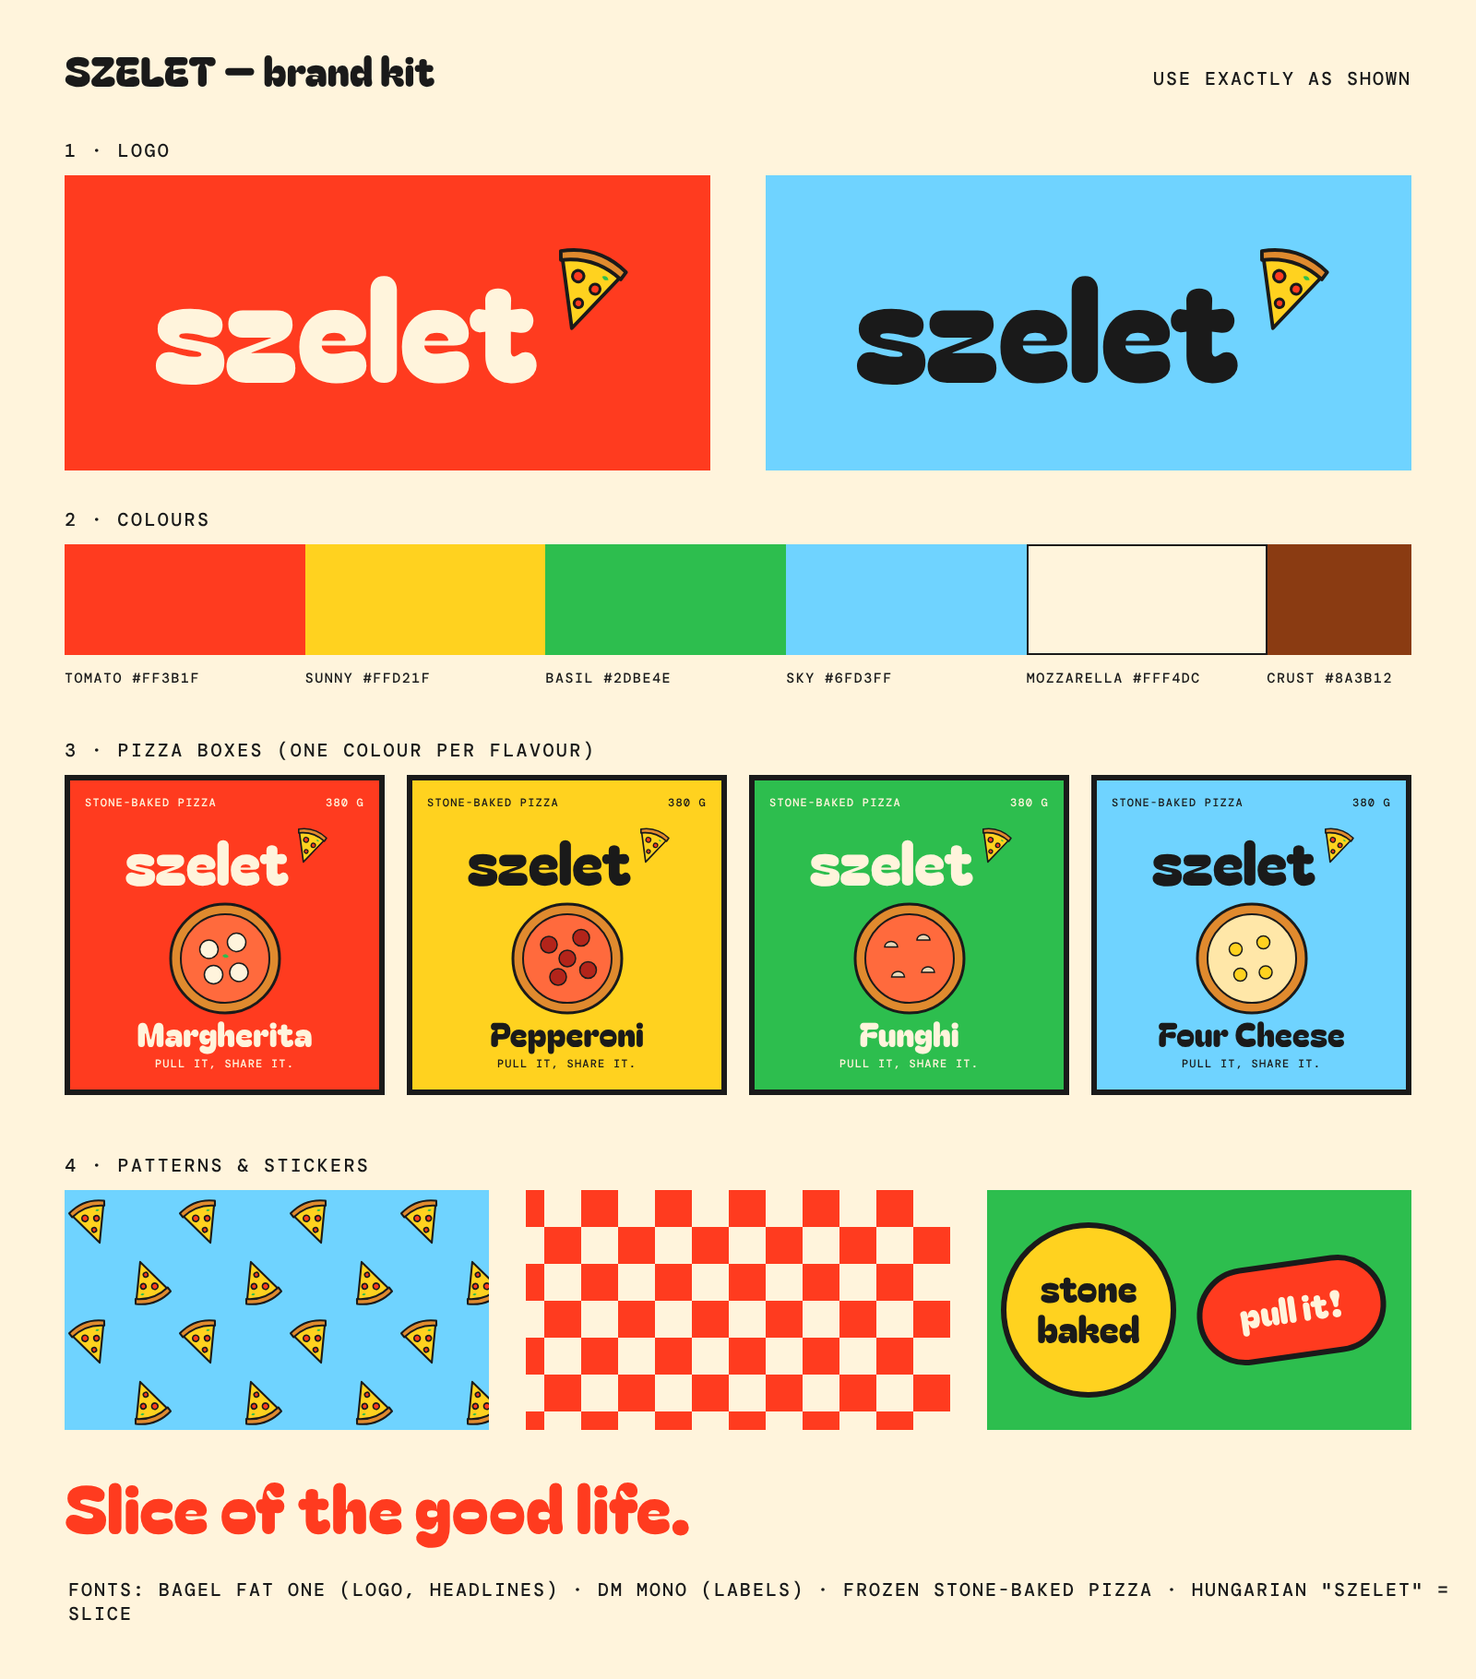
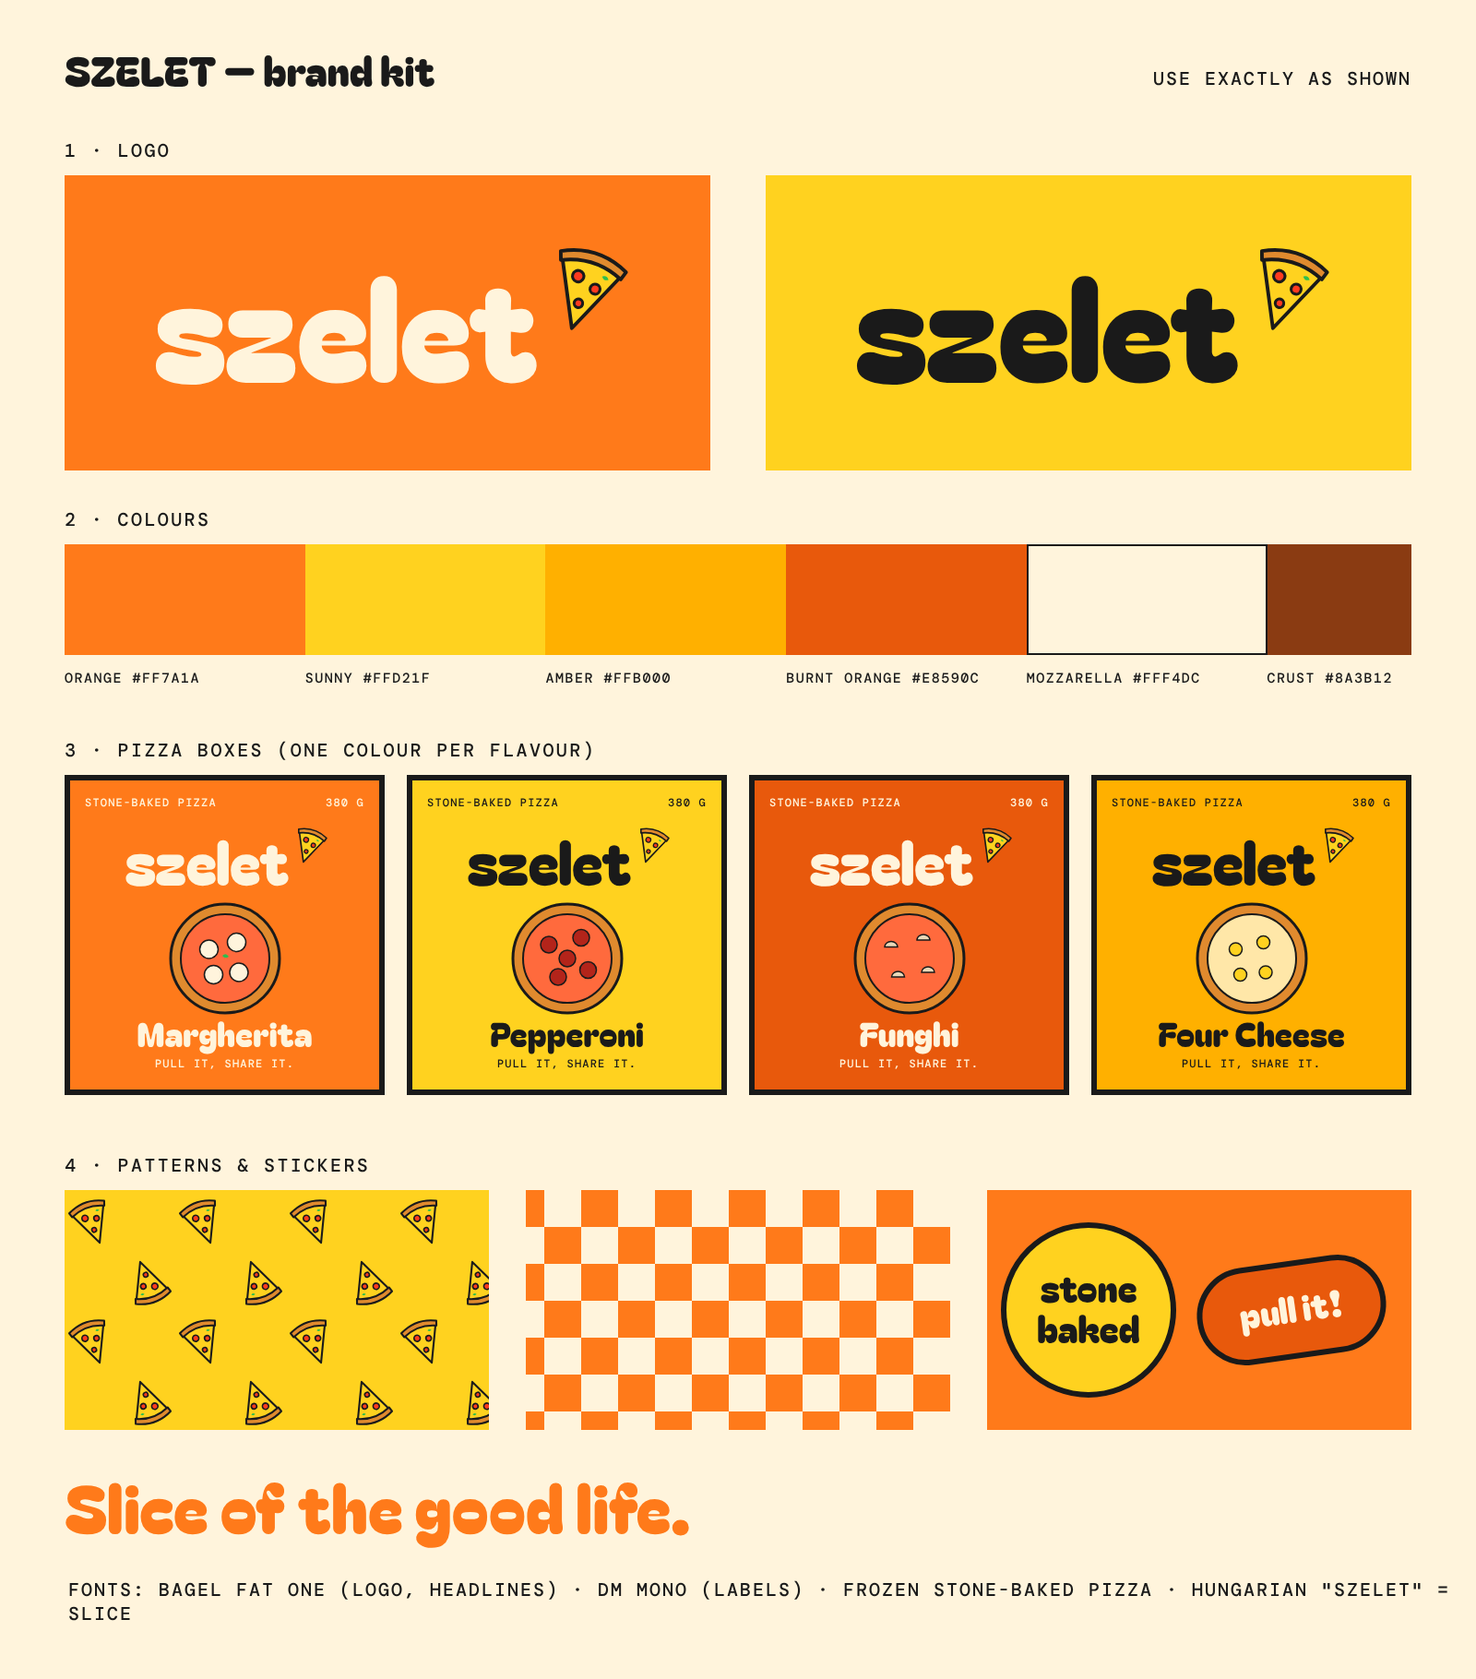
SZELET: yellow and orange only palette, updated kit, sketches and 23promts11
Claude-Session: https://claude.ai/code/session_01FuZubXyqYQcha8AH4cMf93

diff --git a/reels/brands/szelet/kit.html b/reels/brands/szelet/kit.html
@@ -5,7 +5,7 @@
 <title>SZELET brand kit</title>
 <link href="https://fonts.googleapis.com/css2?family=Bagel+Fat+One&family=DM+Mono:wght@500&display=swap" rel="stylesheet">
 <style>
-  :root{--red:#FF3B1F;--green:#2DBE4E;--cream:#FFF4DC;--sky:#6FD3FF;--yellow:#FFD21F;--crust:#8A3B12}
+  :root{--red:#FF7A1A;--green:#FFB000;--cream:#FFF4DC;--sky:#FFD21F;--yellow:#FFD21F;--crust:#8A3B12}
   *{margin:0;padding:0;box-sizing:border-box}
   body{background:#222;width:1600px}
   section{position:relative;overflow:hidden}
@@ -40,9 +40,9 @@
 
   <div class="abs label" style="top:550px;left:70px">2 · Colours</div>
   <div class="abs" style="top:590px;left:70px;width:1460px;height:120px;display:flex">
-    <div style="flex:1;background:#FF3B1F"></div><div style="flex:1;background:#FFD21F"></div><div style="flex:1;background:#2DBE4E"></div><div style="flex:1;background:#6FD3FF"></div><div style="flex:1;background:#FFF4DC;outline:2px solid #1A1A1A;outline-offset:-2px"></div><div style="flex:.6;background:#8A3B12"></div></div>
+    <div style="flex:1;background:#FF7A1A"></div><div style="flex:1;background:#FFD21F"></div><div style="flex:1;background:#FFB000"></div><div style="flex:1;background:#E8590C"></div><div style="flex:1;background:#FFF4DC;outline:2px solid #1A1A1A;outline-offset:-2px"></div><div style="flex:.6;background:#8A3B12"></div></div>
   <div class="abs mono" style="top:725px;left:70px;width:1460px;display:flex;font-size:15px;color:#1A1A1A">
-    <div style="flex:1">Tomato #FF3B1F</div><div style="flex:1">Sunny #FFD21F</div><div style="flex:1">Basil #2DBE4E</div><div style="flex:1">Sky #6FD3FF</div><div style="flex:1">Mozzarella #FFF4DC</div><div style="flex:.6">Crust #8A3B12</div></div>
+    <div style="flex:1">Orange #FF7A1A</div><div style="flex:1">Sunny #FFD21F</div><div style="flex:1">Amber #FFB000</div><div style="flex:1">Burnt orange #E8590C</div><div style="flex:1">Mozzarella #FFF4DC</div><div style="flex:.6">Crust #8A3B12</div></div>
 
   <div class="abs label" style="top:800px;left:70px">3 · Pizza boxes (one colour per flavour)</div>
   <div class="abs" style="top:840px;left:70px;width:1460px;height:700px;display:grid;grid-template-columns:repeat(4,1fr);gap:24px" data-boxes></div>
@@ -50,14 +50,14 @@
   <div class="abs label" style="top:1250px;left:70px">4 · Patterns &amp; stickers</div>
   <svg class="abs" width="1460" height="260" style="top:1290px;left:70px">
     <defs><pattern id="p-sl" width="120" height="130" patternUnits="userSpaceOnUse"><use href="#slice" transform="translate(30 35) scale(.42) rotate(-20)"/><use href="#slice" transform="translate(90 100) scale(.42) rotate(160)"/></pattern>
-      <pattern id="p-ch" width="80" height="80" patternUnits="userSpaceOnUse"><rect width="80" height="80" fill="#FFF4DC"/><rect width="40" height="40" fill="#FF3B1F"/><rect x="40" y="40" width="40" height="40" fill="#FF3B1F"/></pattern></defs>
-    <rect width="460" height="260" fill="#6FD3FF"/><rect width="460" height="260" fill="url(#p-sl)"/>
+      <pattern id="p-ch" width="80" height="80" patternUnits="userSpaceOnUse"><rect width="80" height="80" fill="#FFF4DC"/><rect width="40" height="40" fill="#FF7A1A"/><rect x="40" y="40" width="40" height="40" fill="#FF7A1A"/></pattern></defs>
+    <rect width="460" height="260" fill="#FFD21F"/><rect width="460" height="260" fill="url(#p-sl)"/>
     <rect x="500" width="460" height="260" fill="url(#p-ch)"/>
-    <g transform="translate(1000 0)"><rect width="460" height="260" fill="#2DBE4E"/>
+    <g transform="translate(1000 0)"><rect width="460" height="260" fill="#FF7A1A"/>
       <circle cx="110" cy="130" r="92" fill="#FFD21F" stroke="#1A1A1A" stroke-width="6"/><text x="110" y="122" text-anchor="middle" font-family="Bagel Fat One" font-size="40" fill="#1A1A1A">stone</text><text x="110" y="166" text-anchor="middle" font-family="Bagel Fat One" font-size="40" fill="#1A1A1A">baked</text>
-      <g transform="translate(330 130) rotate(-8)"><rect x="-100" y="-50" width="200" height="100" rx="50" fill="#FF3B1F" stroke="#1A1A1A" stroke-width="6"/><text y="14" text-anchor="middle" font-family="Bagel Fat One" font-size="38" fill="#FFF4DC">pull it!</text></g></g>
+      <g transform="translate(330 130) rotate(-8)"><rect x="-100" y="-50" width="200" height="100" rx="50" fill="#E8590C" stroke="#1A1A1A" stroke-width="6"/><text y="14" text-anchor="middle" font-family="Bagel Fat One" font-size="38" fill="#FFF4DC">pull it!</text></g></g>
   </svg>
-  <div class="abs fat" style="top:1600px;left:70px;font-size:72px;color:#FF3B1F">Slice of the good life.</div>
+  <div class="abs fat" style="top:1600px;left:70px;font-size:72px;color:#FF7A1A">Slice of the good life.</div>
   <div class="abs mono" style="top:1710px;left:74px;font-size:20px;color:#1A1A1A">Fonts: Bagel Fat One (logo, headlines) · DM Mono (labels) · Frozen stone-baked pizza · Hungarian "szelet" = slice</div>
 </section>
 
@@ -71,7 +71,7 @@
   <g id="basil"><path d="M0 0q30 -40 60 0q-30 30 -60 0z" fill="#2DBE4E" stroke="#1E8A38" stroke-width="2"/><path d="M0 0h58" stroke="#1E8A38" stroke-width="2"/></g>
 </defs></svg>
 
-<section data-out="sk-01-flatlay" class="sk" style="background:#6FD3FF">
+<section data-out="sk-01-flatlay" class="sk" style="background:#FFD21F">
   <div class="abs sh" style="left:60px;top:150px;width:420px;height:420px;transform:rotate(-8deg)" data-box="Margherita"></div>
   <div class="abs sh" style="left:560px;top:250px;width:400px;height:400px;transform:rotate(7deg)" data-box="Pepperoni"></div>
   <div class="abs sh" style="left:620px;top:1000px;width:380px;height:380px;transform:rotate(-6deg)" data-box="Funghi"></div>
@@ -80,7 +80,7 @@
     <use href="#basil" transform="translate(520 1250) rotate(30)"/><use href="#basil" transform="translate(110 640) rotate(-40)"/></svg>
 </section>
 
-<section data-out="sk-02-cheese-pull" class="sk" style="background:#FFD21F">
+<section data-out="sk-02-cheese-pull" class="sk" style="background:#FF7A1A">
   <div class="abs" style="left:70px;top:250px;width:570px;height:570px" data-box="Pepperoni"></div>
   <div class="abs" style="left:112px;top:820px;width:800px;height:640px;background:#C9A47A;border:6px solid #1A1A1A;transform:perspective(1400px) rotateX(35deg);transform-origin:top"></div>
   <svg class="abs" width="1024" height="1536">
@@ -90,17 +90,17 @@
     <circle cx="520" cy="470" r="22" fill="#FFF4DC"/><circle cx="560" cy="380" r="16" fill="#FFF4DC"/></g></svg>
 </section>
 
-<section data-out="sk-03-pattern" class="sk" style="background:#2DBE4E" data-grid></section>
+<section data-out="sk-03-pattern" class="sk" style="background:#FFD21F" data-grid></section>
 
-<section data-out="sk-04-bite" class="sk" style="background:#6FD3FF">
+<section data-out="sk-04-bite" class="sk" style="background:#FFB000">
   <svg class="abs" width="1024" height="1536">
     <ellipse cx="520" cy="560" rx="210" ry="270" fill="#E6B391" opacity=".55"/>
-    <path d="M240 1536Q260 1000 520 940Q780 1000 800 1536Z" fill="#FF3B1F"/>
+    <path d="M240 1536Q260 1000 520 940Q780 1000 800 1536Z" fill="#FFF4DC"/>
     <path d="M620 700 L860 660 L700 420 Z" fill="#FF6A3D" stroke="#1A1A1A" stroke-width="5" transform="rotate(10 740 560)"/></svg>
   <div class="abs sh" style="left:160px;top:1090px;width:360px;height:360px;transform:rotate(-10deg)" data-box="Four Cheese"></div>
 </section>
 
-<section data-out="sk-05-tomatoes" class="sk" style="background:#FF3B1F">
+<section data-out="sk-05-tomatoes" class="sk" style="background:#FF7A1A">
   <div class="abs sh" style="left:262px;top:300px;width:500px;height:500px;transform:rotate(-6deg)" data-box="Margherita"></div>
   <svg class="abs" width="1024" height="1536"><rect x="452" y="790" width="120" height="420" rx="50" fill="#E6B391" opacity=".75"/>
     <use href="#tomato" transform="translate(487 1353) scale(1.17) rotate(189)"/><use href="#tomato" transform="translate(970 1370) scale(1.19) rotate(310)"/><use href="#tomato" transform="translate(26 1515) scale(1.32) rotate(132)"/><use href="#tomato" transform="translate(479 1148) scale(1.40) rotate(240)"/><use href="#tomato" transform="translate(975 1253) scale(1.22) rotate(77)"/><use href="#tomato" transform="translate(474 1375) scale(0.98) rotate(267)"/><use href="#tomato" transform="translate(798 1429) scale(0.91) rotate(32)"/><use href="#tomato" transform="translate(326 1438) scale(1.38) rotate(21)"/><use href="#tomato" transform="translate(616 1449) scale(0.92) rotate(137)"/><use href="#tomato" transform="translate(968 1354) scale(1.26) rotate(198)"/><use href="#tomato" transform="translate(874 1252) scale(1.26) rotate(295)"/><use href="#tomato" transform="translate(910 1543) scale(1.37) rotate(187)"/><use href="#tomato" transform="translate(199 1068) scale(0.97) rotate(111)"/><use href="#tomato" transform="translate(528 1544) scale(1.24) rotate(320)"/><use href="#tomato" transform="translate(616 1265) scale(1.15) rotate(197)"/><use href="#tomato" transform="translate(718 1323) scale(1.19) rotate(299)"/><use href="#tomato" transform="translate(475 1512) scale(1.07) rotate(14)"/><use href="#tomato" transform="translate(572 1557) scale(1.20) rotate(356)"/><use href="#tomato" transform="translate(334 1407) scale(1.33) rotate(277)"/><use href="#tomato" transform="translate(213 1415) scale(1.23) rotate(324)"/><use href="#tomato" transform="translate(546 1195) scale(0.96) rotate(246)"/><use href="#tomato" transform="translate(990 1095) scale(1.07) rotate(34)"/><use href="#tomato" transform="translate(840 1509) scale(0.98) rotate(150)"/><use href="#tomato" transform="translate(874 1443) scale(1.11) rotate(60)"/><use href="#tomato" transform="translate(90 1359) scale(1.21) rotate(23)"/><use href="#tomato" transform="translate(773 1417) scale(1.19) rotate(282)"/><use href="#tomato" transform="translate(571 1308) scale(1.02) rotate(18)"/><use href="#tomato" transform="translate(634 1053) scale(0.94) rotate(307)"/><use href="#tomato" transform="translate(64 1535) scale(1.00) rotate(208)"/><use href="#tomato" transform="translate(597 1362) scale(1.03) rotate(353)"/><use href="#tomato" transform="translate(86 1551) scale(1.33) rotate(160)"/><use href="#tomato" transform="translate(737 1540) scale(0.97) rotate(193)"/><use href="#tomato" transform="translate(771 1285) scale(1.33) rotate(197)"/><use href="#tomato" transform="translate(210 1367) scale(1.39) rotate(259)"/><use href="#tomato" transform="translate(555 1270) scale(1.22) rotate(121)"/><use href="#tomato" transform="translate(616 1273) scale(1.39) rotate(266)"/><use href="#tomato" transform="translate(620 1330) scale(1.07) rotate(212)"/><use href="#tomato" transform="translate(644 1060) scale(1.09) rotate(301)"/><use href="#tomato" transform="translate(272 1080) scale(1.22) rotate(170)"/><use href="#tomato" transform="translate(954 1230) scale(1.24) rotate(180)"/><use href="#tomato" transform="translate(571 1427) scale(1.14) rotate(301)"/><use href="#tomato" transform="translate(124 1538) scale(1.24) rotate(189)"/><use href="#tomato" transform="translate(514 1371) scale(1.13) rotate(303)"/><use href="#tomato" transform="translate(655 1140) scale(1.08) rotate(160)"/><use href="#tomato" transform="translate(756 1482) scale(1.20) rotate(153)"/><use href="#tomato" transform="translate(772 1103) scale(1.29) rotate(13)"/><use href="#tomato" transform="translate(269 1208) scale(1.15) rotate(334)"/><use href="#tomato" transform="translate(551 1172) scale(1.06) rotate(347)"/><use href="#tomato" transform="translate(891 1382) scale(1.25) rotate(52)"/><use href="#tomato" transform="translate(659 1535) scale(1.07) rotate(114)"/><use href="#tomato" transform="translate(897 1464) scale(1.33) rotate(86)"/><use href="#tomato" transform="translate(163 1222) scale(1.27) rotate(111)"/><use href="#tomato" transform="translate(923 1188) scale(1.01) rotate(61)"/><use href="#tomato" transform="translate(69 1321) scale(1.38) rotate(161)"/><use href="#tomato" transform="translate(375 1492) scale(1.04) rotate(328)"/><use href="#tomato" transform="translate(175 1462) scale(1.21) rotate(301)"/><use href="#tomato" transform="translate(265 1265) scale(1.05) rotate(138)"/><use href="#tomato" transform="translate(951 1227) scale(1.22) rotate(148)"/><use href="#tomato" transform="translate(859 1340) scale(1.10) rotate(211)"/><use href="#tomato" transform="translate(319 1152) scale(0.90) rotate(318)"/><use href="#tomato" transform="translate(889 1336) scale(1.38) rotate(113)"/><use href="#tomato" transform="translate(66 1431) scale(1.13) rotate(339)"/><use href="#tomato" transform="translate(591 1328) scale(1.07) rotate(116)"/><use href="#tomato" transform="translate(139 1489) scale(1.19) rotate(146)"/><use href="#tomato" transform="translate(245 1464) scale(1.02) rotate(17)"/><use href="#tomato" transform="translate(406 1509) scale(1.34) rotate(220)"/><use href="#tomato" transform="translate(101 1056) scale(1.14) rotate(61)"/><use href="#tomato" transform="translate(351 1307) scale(1.05) rotate(339)"/><use href="#tomato" transform="translate(40 1318) scale(1.17) rotate(27)"/><use href="#tomato" transform="translate(232 1224) scale(0.96) rotate(276)"/></svg>
@@ -109,7 +109,7 @@
 <script>
 const SL='<svg viewBox="-50 -60 100 120"><use href="#slice"/></svg>';
 const LOGO=`<span>szelet</span>${SL}`;
-const FL=[['Margherita','#FF3B1F','#FFF4DC'],['Pepperoni','#FFD21F','#1A1A1A'],['Funghi','#2DBE4E','#FFF4DC'],['Four Cheese','#6FD3FF','#1A1A1A']];
+const FL=[['Margherita','#FF7A1A','#FFF4DC'],['Pepperoni','#FFD21F','#1A1A1A'],['Funghi','#E8590C','#FFF4DC'],['Four Cheese','#FFB000','#1A1A1A']];
 document.querySelectorAll('[data-boxes]').forEach(el=>{el.innerHTML=FL.map(([n,bg,fg])=>`
   <div style="aspect-ratio:1;position:relative;background:${bg};color:${fg};border:6px solid #1A1A1A;overflow:hidden">
     <div class="mono" style="position:absolute;top:16px;left:16px;font-size:12px">Stone-baked pizza</div>

diff --git a/reels/brands/szelet/23promts11.md b/reels/brands/szelet/23promts11.md
@@ -21,9 +21,9 @@ Then:
 
 **Rules for every image:**
 - **Keep my composition:** same objects, positions, angles, sizes and background colours.
-- **Keep the box designs exactly as in the brand kit:** square pizza boxes, one bold colour per flavour (Margherita red, Pepperoni yellow, Funghi green, Four Cheese sky blue), thick black outline, the lowercase "szelet" logo with the little pizza slice, the flavour name in fat rounded letters. Don't redraw or rename anything; no other text or brands.
+- **Keep the box designs exactly as in the brand kit:** square pizza boxes, one bold colour per flavour (Margherita orange, Pepperoni yellow, Funghi burnt orange, Four Cheese amber), thick black outline, the lowercase "szelet" logo with the little pizza slice, the flavour name in fat rounded letters. Don't redraw or rename anything; no other text or brands.
 - **The pizzas must look delicious and real:** stone-baked, blistered golden crust, bubbling melted mozzarella, glossy tomato sauce, fresh basil. Pepperoni pizza where the Pepperoni box is shown.
-- **Style: bold pop product photography**, like a trendy Gen Z drinks or snacks brand campaign: **flat, saturated colour backgrounds** exactly in the sketch colours, bright hard flash light with **crisp hard shadows**, punchy contrast, very clean.
+- **Style: bold pop product photography**, like a trendy Gen Z drinks or snacks brand campaign: **flat, saturated yellow and orange backgrounds** exactly in the sketch colours (no blue, no green, no other background colours), bright hard flash light with **crisp hard shadows**, punchy contrast, very clean.
 - **Don't** make it look like a 3D render, CGI or cartoon. No dark moody scenes, no bokeh, no other brands, no extra text.
 - **Ignore your memory and anything you know about me or my other brands.** This is NOT 23 Team.
 - **Format: tall portrait, 1024×1536**, same as the sketches.
@@ -31,16 +31,16 @@ Then:
 ---
 
 ## Image 1 of 5 — flatlay
-From sketch 01: top-down flat lay on a flat sky-blue background: three SZELET boxes (Margherita, Pepperoni, Funghi) at playful angles, a whole hot Margherita pizza, fresh tomatoes and basil leaves. Hard flash shadows.
+From sketch 01: top-down flat lay on a flat sunny-yellow background: three SZELET boxes (Margherita, Pepperoni, Funghi) at playful angles, a whole hot Margherita pizza, fresh tomatoes and basil leaves. Hard flash shadows.
 
 ## Image 2 of 5 — cheese-pull
-From sketch 02: an open SZELET Pepperoni box (lid standing up behind, logo visible) with a hot pepperoni pizza inside, on a flat yellow background. **A real hand lifts a slice up and to the right**, long stretchy strings of melted mozzarella pulling from the pizza.
+From sketch 02: an open SZELET Pepperoni box (lid standing up behind, logo visible) with a hot pepperoni pizza inside, on a flat orange background. **A real hand lifts a slice up and to the right**, long stretchy strings of melted mozzarella pulling from the pizza.
 
 ## Image 3 of 5 — pattern
-From sketch 03: top-down, rows of SZELET boxes in all four colours arranged in a neat grid on a flat basil-green background, each casting a strong diagonal hard shadow. Graphic and repetitive.
+From sketch 03: top-down, rows of SZELET boxes in all four colours arranged in a neat grid on a flat sunny-yellow background, each casting a strong diagonal hard shadow. Graphic and repetitive.
 
 ## Image 4 of 5 — bite
-From sketch 04: **a young person taking a big bite of a pizza slice**, cheese stretching, a bright red top, against a flat sky-blue background. **In their other hand they hold the SZELET Four Cheese box** towards the camera. Fun, joyful, editorial.
+From sketch 04: **a young person taking a big bite of a pizza slice**, cheese stretching, a cream top, against a flat amber background. **In their other hand they hold the SZELET Four Cheese box** towards the camera. Fun, joyful, editorial.
 
 ## Image 5 of 5 — tomatoes
-From sketch 05: **a real arm pushes a SZELET Margherita box up out of a big pile of fresh red tomatoes**, box tilted, against a flat tomato-red background. Bright flash light.
+From sketch 05: **a real arm pushes a SZELET Margherita box up out of a big pile of fresh red tomatoes**, box tilted, against a flat orange background. Bright flash light.

diff --git a/reels/brands/szelet/brand.md b/reels/brands/szelet/brand.md
@@ -4,8 +4,8 @@
 - **What:** a supermarket frozen stone-baked pizza brand. Four flavours in square boxes: Margherita, Pepperoni, Funghi, Four Cheese.
 - **Audience:** young city people who want a frozen pizza that looks fun and tastes like a pizzeria.
 - **Logo:** lowercase "szelet" in Bagel Fat One (fat, round, bouncy), with a pizza-slice mark tilted at the end like a flag.
-- **Palette (pop, colour-blocked):** Tomato red `#FF3B1F` · Basil green `#2DBE4E` · Mozzarella cream `#FFF4DC` · Sky blue `#6FD3FF` · Sunny yellow `#FFD21F` · Crust brown `#8A3B12`
-  - One colour per flavour: Margherita red, Pepperoni yellow, Funghi green, Four Cheese blue.
+- **Palette (yellow + orange only):** Sunny yellow `#FFD21F` · Orange `#FF7A1A` · Amber `#FFB000` · Burnt orange `#E8590C` · Mozzarella cream `#FFF4DC` · Ink `#1A1A1A`. No blue or green (green/red only as real food: basil, tomatoes).
+  - One colour per flavour: Margherita orange, Pepperoni yellow, Funghi burnt orange, Four Cheese amber.
 - **Type:** Bagel Fat One (logo, headlines) · DM Mono (labels)
 - **Lines:** "Slice of the good life." · "Stone-baked. Freezer-ready." · "Pull it, share it."
 - **Shots rule:** every photo shows the pizza or the SZELET boxes.
